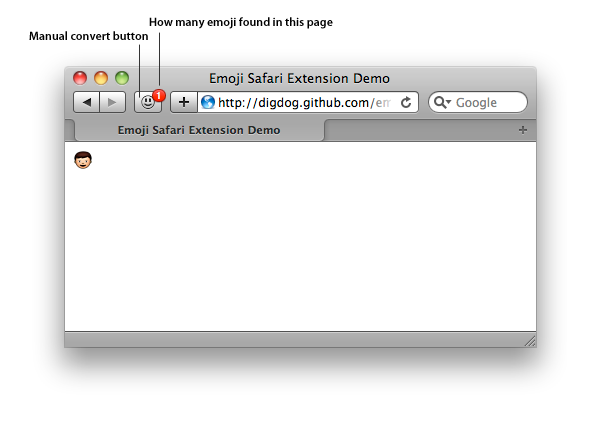
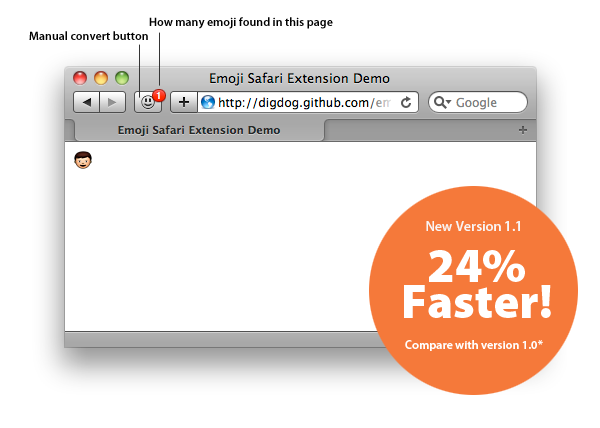
Add version 1.1 test description and picture

Changed region(s): [[0.6, 0.4252, 0.99, 0.9416]]

diff --git a/index.html b/index.html
@@ -132,7 +132,8 @@
         <img src="banner.png">
         <p><a href="emoji.safariextz" class="red large awesome" title="Download Now">Download Now</a></p>
         <a href="http://twitter.com/search?q=emoji" title="Go trying over twitter.com"><img src="screenshot.png"></a>
-        <p class="note">* This safari extension converts <a href="http://en.wikipedia.org/wiki/Emoji">emoji</a> characters to iPhone emoji icons. You can test the extension on <a href="http://twitter.com/search?q=emoji">http://twitter.com/search?q=emoji</a>, or read my <a href="http://digdog.tumblr.com/post/702302712/emoji-safari-extension-1-0">blog</a> to see how it was designed and created.</p>
+        <p class="note">This safari extension converts <a href="http://en.wikipedia.org/wiki/Emoji">emoji</a> characters to iPhone emoji icons. You can test the extension on <a href="http://twitter.com/search?q=emoji">http://twitter.com/search?q=emoji</a>, or read my <a href="http://digdog.tumblr.com/post/702302712/emoji-safari-extension-1-0">blog</a> to see how it was designed and created.</p>
+        <p class="note">* The test was done by loading 4710 random emoji characters in single HTML page for 10 times, version 1.0 cost for about <b>965ms</b>, while version 1.1 only took <b>736ms</b> in average.</p>
         <p class="description">Released under <a href="http://en.wikipedia.org/wiki/MIT_License">MIT License</a>. Source code and <a href="http://wiki.github.com/digdog/emoji/release-note">release note</a> are available on <a href="http://github.com/digdog/emoji">github</a>.</p>
     </div>
     <div id="footer" class="container">
